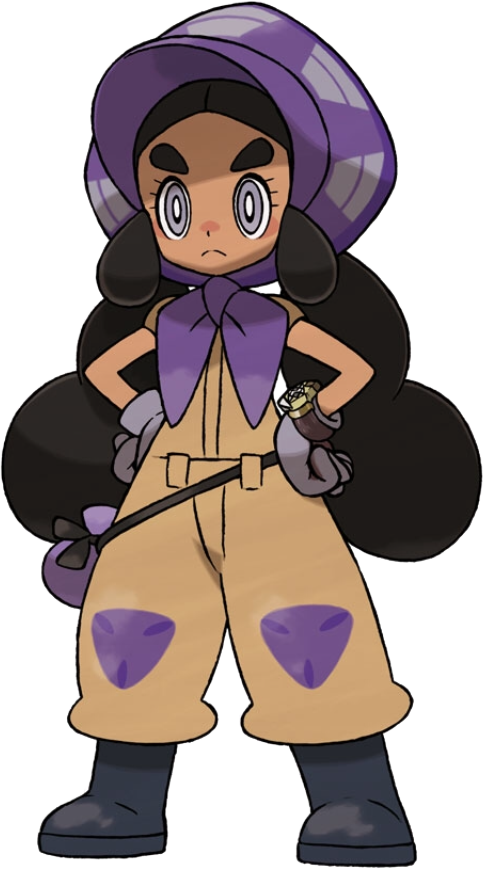
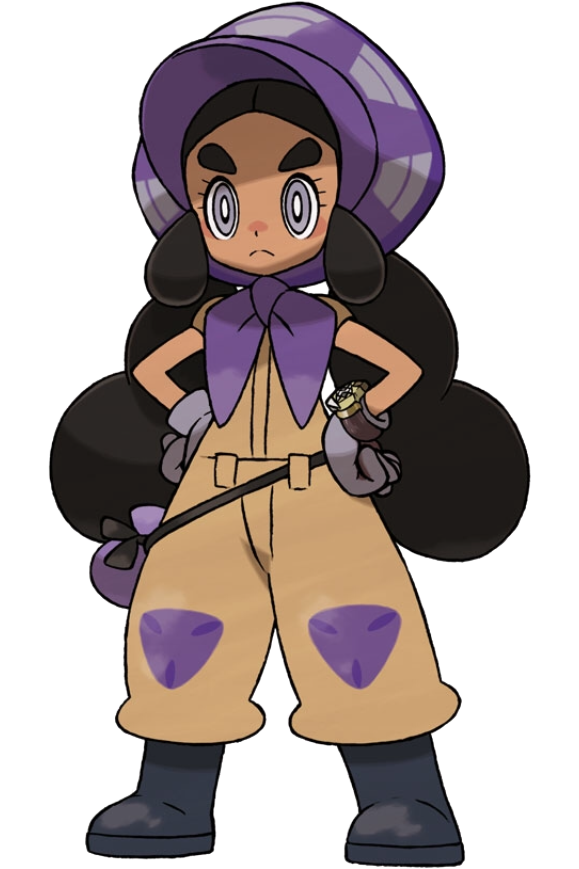
Fixed some image ratios & bugs

Changed region(s): [[0.0, 0.0, 1.0, 1.0]]

diff --git a/src/js/data/2022-09-01.js b/src/js/data/2022-09-01.js
@@ -2167,7 +2167,7 @@ dataSet[dataSetVersion].characterData = [
   },
     {
     name: "Cyrus",
-    img: "Omega_Ruby_Alpha_Sapphire_Cyrus.png",
+    img: "Cyrus.png",
     opts: {
       gender: ["male"],
 	  group: ["villain"],
